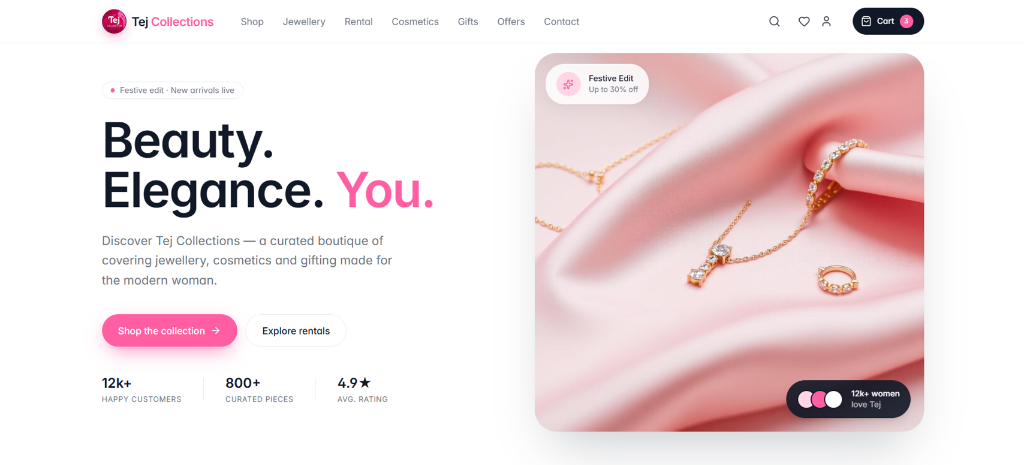
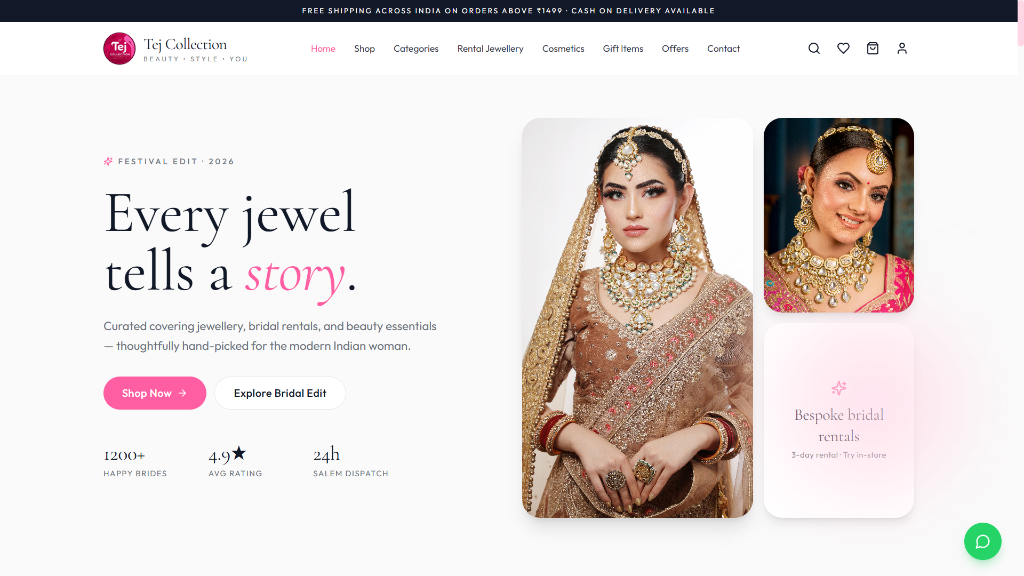
Update Tej Collection with bridal festival hero, single product view, and boutique location slides

diff --git a/portfolio-source/portfolio/index.html b/portfolio-source/portfolio/index.html
@@ -183,10 +183,11 @@
     <article class="project reverse reveal-up" data-project="2">
       <div class="project-media" data-slider>
         <div class="slides">
-          <img src="assets/jewellery-home.png" alt="Tej Collection homepage" loading="lazy" decoding="async" />
-          <img src="assets/jewellery-product.png" alt="Tej Collection product page" loading="lazy" decoding="async" />
+          <img src="assets/jewellery-home.png" alt="Tej Collection bridal hero" loading="lazy" decoding="async" />
+          <img src="assets/jewellery-product.png" alt="Tej Collection product detail page" loading="lazy" decoding="async" />
+          <img src="assets/jewellery-location.png" alt="Tej Collection store location and footer" loading="lazy" decoding="async" />
         </div>
-        <div class="slider-dots"><span class="active"></span><span></span></div>
+        <div class="slider-dots"><span class="active"></span><span></span><span></span></div>
         <div class="tilt-glow"></div>
       </div>
       <div class="project-info">

diff --git a/portfolio-source/portfolio/portfolio.html b/portfolio-source/portfolio/portfolio.html
@@ -183,10 +183,11 @@
     <article class="project reverse reveal-up" data-project="2">
       <div class="project-media" data-slider>
         <div class="slides">
-          <img src="assets/jewellery-home.png" alt="Tej Collection homepage" loading="lazy" decoding="async" />
-          <img src="assets/jewellery-product.png" alt="Tej Collection product page" loading="lazy" decoding="async" />
+          <img src="assets/jewellery-home.png" alt="Tej Collection bridal hero" loading="lazy" decoding="async" />
+          <img src="assets/jewellery-product.png" alt="Tej Collection product detail page" loading="lazy" decoding="async" />
+          <img src="assets/jewellery-location.png" alt="Tej Collection store location and footer" loading="lazy" decoding="async" />
         </div>
-        <div class="slider-dots"><span class="active"></span><span></span></div>
+        <div class="slider-dots"><span class="active"></span><span></span><span></span></div>
         <div class="tilt-glow"></div>
       </div>
       <div class="project-info">
